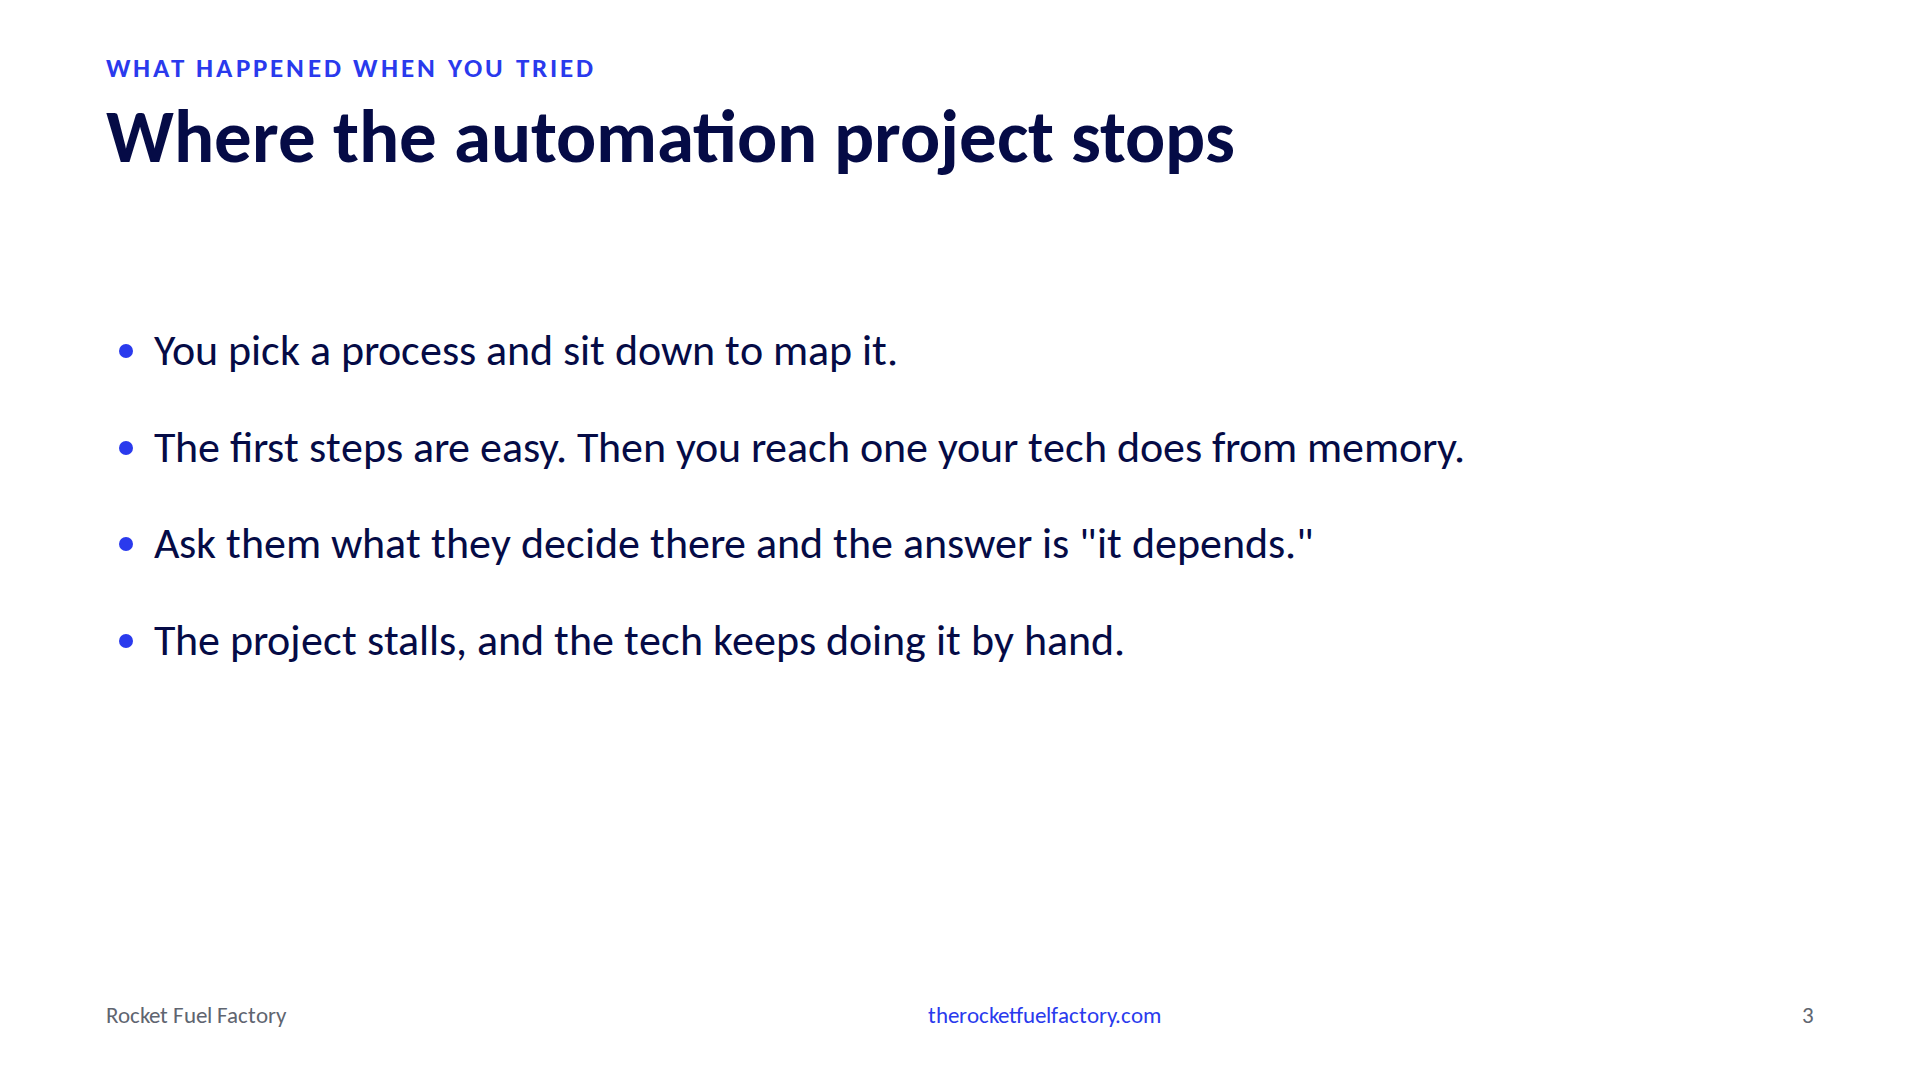
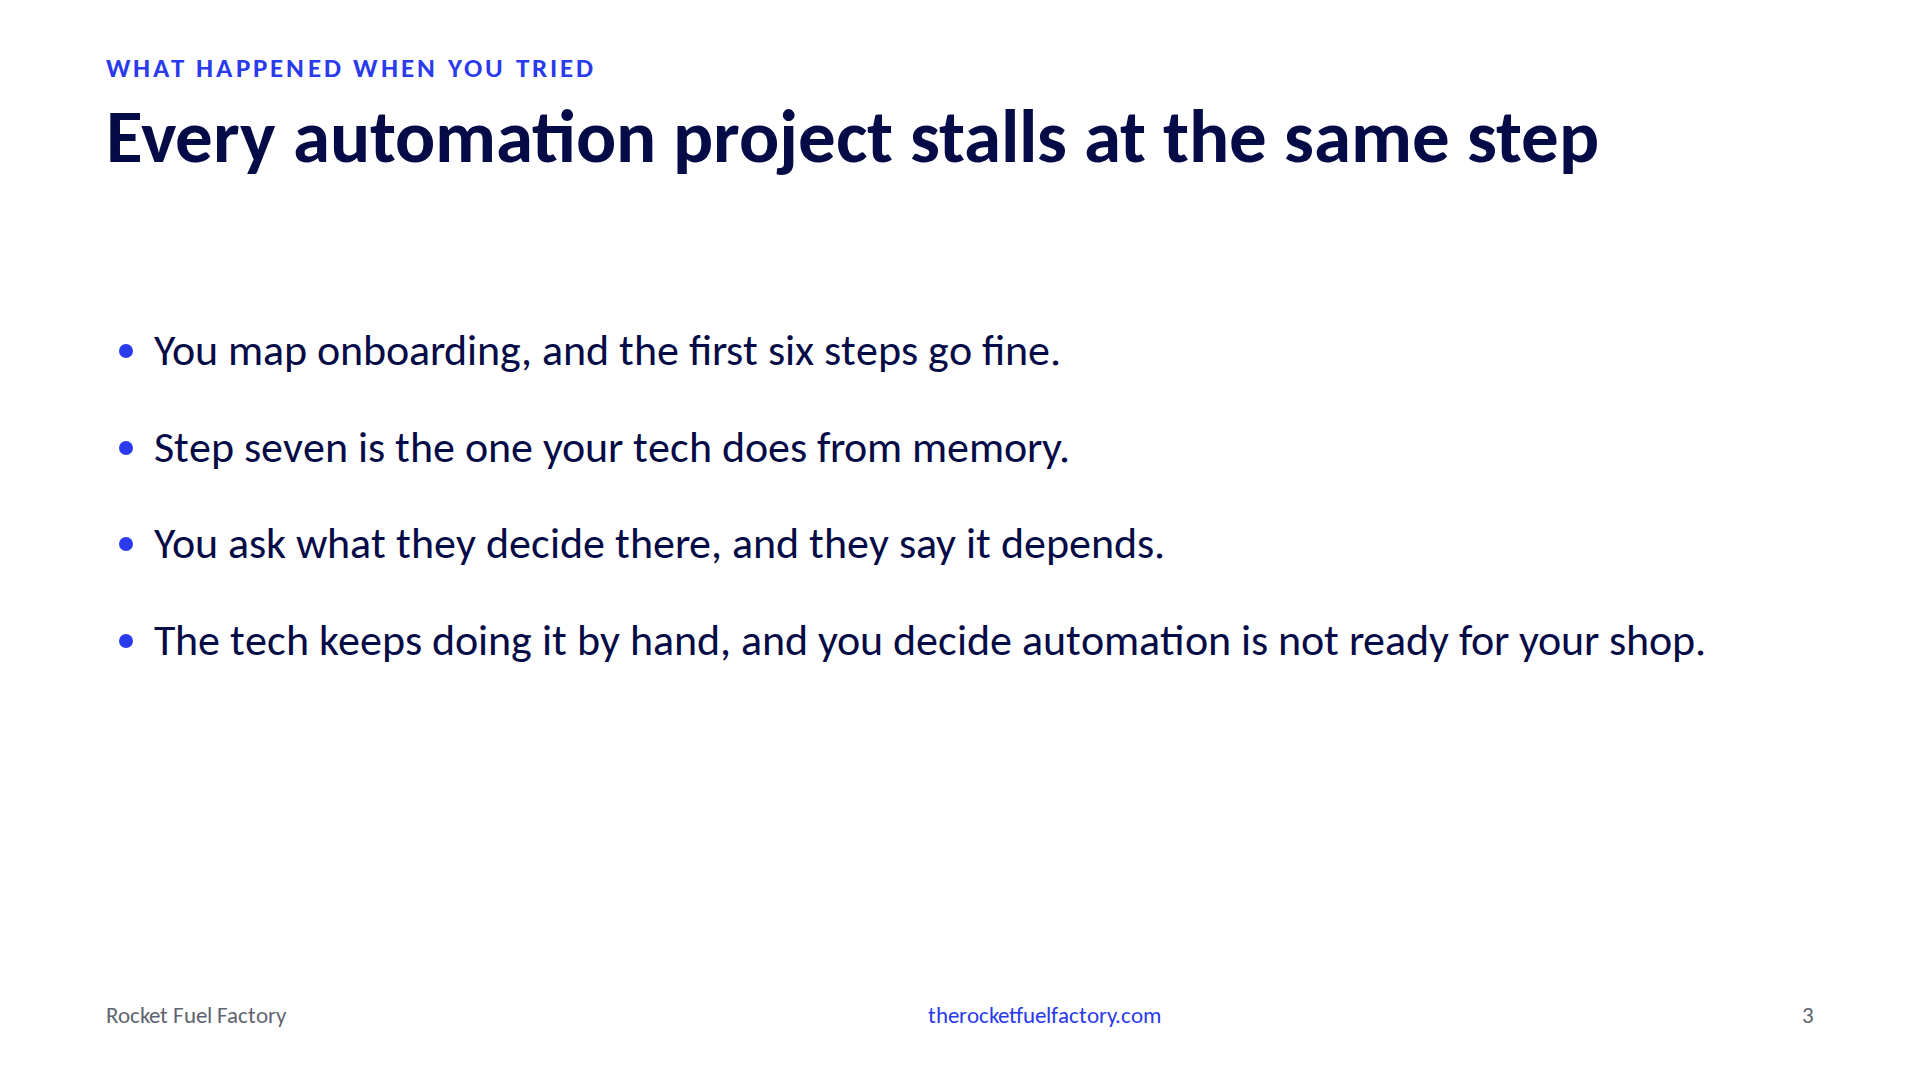
Slide 3: put the owner's own conclusion on the wall
Opus critique applied: cut the stage-direction bullet, name the step, fuse
the two-sentence line, and move "you decide automation is not ready for
your shop" from the note onto the slide. Note now answers the scheduling
objection instead of repeating the bullets.

Claude-Session: https://claude.ai/code/session_01HRMTnqCi7ggkLqdfhgoRdY

diff --git a/src/data/notes.js b/src/data/notes.js
@@ -6,7 +6,7 @@
 export const notes = {
   cover: 'Target 0:00. No verbatim line. Land straight after Dawn and Dave. Do not summarize their talk, one sentence of thanks and go.',
   automatons: 'Target 0:20. SLOW. Say the line and let it sit; half the room has a stalled automation project. Then the footer: this is what a tech\'s day still looks like, and it is exactly the work the machine was built for. So why is a person doing it? Not because owners do not want to automate. Everyone in this room has tried. Next slide is what happened when you did. Click.',
-  'where-the-project-stops': 'Target 1:00. Tell it as their story, not yours. You picked a process, probably onboarding. The first steps mapped fine. Then you hit one your tech does from memory, asked what they decide there, and got it depends. The project stalled, the tech kept doing it by hand, and you decided automation was not ready for your shop. It was not automation that failed. It was that step. Next slide is what it depends is made of. Click.',
+  'where-the-project-stops': 'Target 1:00. Do not read the bullets; they are on the wall. Tell it as their story. Step seven is whatever your tech does without thinking, and it depends is the honest answer, because the decision has never been said out loud. Then the objection in row three, say it for them: most of these projects look like they died of scheduling, a client went down and the second mapping session never happened. The reason nobody rescheduled is that the next step had no answer. It was not automation that failed. It was that step. Next slide is what it depends is made of. Click.',
   'the-typing-is-hiding-a-decision': 'Target 1:50. SLOW. Why did the rule never get written? Read the three lines. Every one of those is a decision, and it happens inside the typing, so it looks like typing. Your best tech makes them all day and has never once been asked to say how, because the work got done. Computers can do the typing. The deciding stayed with the tech because nobody wrote it down, and nobody wrote it down because nobody asked. Stay with the person here, not AI. Bridge, before the click: why has nobody asked? Because it worked. Your best tech kept deciding, the work kept getting done, and you never found out you had handed over the deciding along with the doing. We call that delegating. It is not. Click.',
   'abdicate-not-delegate': 'Target 3:20. The cause. Pick up the thread: you handed over the doing and the deciding together. Line to land: delegating is handing over the work and keeping the definition of done. Abdicating is handing over both. We became the automatons because we abdicated: the deciding stayed in one head, so the doing stayed with one pair of hands. Then the mechanism: you have gotten away with it because your best tech decides what you meant. The vague brief works on them, so you never find out it was vague. Then you give the same brief to the new hire and decide the new hire is not working out. Closing line off the slide: your best tech has been filling in the blanks for years, the new hire could not, neither can this.',
   'the-demo-never-had-a-client': 'Target 4:50. Rant slide, about a minute. No vendor names. Every launch video this year: someone says one sentence, something impressive appears, they say awesome, cut. Any answer would have been fine, because the only person checking was the person who asked. That is why one sentence was enough, and that is where you learned to ask that way. Do not mention the email or the ticket; the next slide opens it cold.',

diff --git a/src/components/slides/003-WhereTheProjectStops.jsx b/src/components/slides/003-WhereTheProjectStops.jsx
@@ -5,18 +5,20 @@ export default function WhereTheProjectStops({ slideNumber }) {
   return (
     <ContentFrame
       eyebrow="What happened when you tried"
-      title="Where the automation project stops"
+      title="Every automation project stalls at the same step"
       accent="blue"
       slideNumber={slideNumber}
     >
       <ul
         className="absolute list-disc pl-[48px] text-[44px] leading-snug text-rff-navy marker:text-rff-blue"
-        style={{ left: 106, top: 320, width: 1560 }}
+        style={{ left: 106, top: 320, width: 1600 }}
       >
-        <li>You pick a process and sit down to map it.</li>
-        <li className="mt-[36px]">The first steps are easy. Then you reach one your tech does from memory.</li>
-        <li className="mt-[36px]">Ask them what they decide there and the answer is "it depends."</li>
-        <li className="mt-[36px]">The project stalls, and the tech keeps doing it by hand.</li>
+        <li>You map onboarding, and the first six steps go fine.</li>
+        <li className="mt-[36px]">Step seven is the one your tech does from memory.</li>
+        <li className="mt-[36px]">You ask what they decide there, and they say it depends.</li>
+        <li className="mt-[36px]">
+          The tech keeps doing it by hand, and you decide automation is not ready for your shop.
+        </li>
       </ul>
     </ContentFrame>
   )

diff --git a/docs/OUTLINE.md b/docs/OUTLINE.md
@@ -36,7 +36,7 @@ Closing line: If you can't write the rule, you can't hire your way out of it eit
 
 1. Cover
 2. Pull statement, blue, Tim's line: We built computers to be automation machines, but we're afraid to actually automate anything with them. Footer: open an app, copy something, paste it into another one, over and over. SLOW. The fear is rational; everyone has tried. Bridge: next slide is what happened when you did.
-3. Where the automation project stops (bullets, blue). You pick a process and sit down to map it. The first steps are easy, then one your tech does from memory. Ask what they decide there and the answer is it depends. The project stalls and the tech keeps doing it by hand. This is the missing step between the fear and the cause: it was not automation that failed, it was that step. Next slide is what it depends is made of.
+3. Every automation project stalls at the same step (bullets, blue). You map onboarding, and the first six steps go fine. Step seven is the one your tech does from memory. You ask what they decide there, and they say it depends. The tech keeps doing it by hand, and you decide automation is not ready for your shop. Note names the scheduling objection: the second mapping session never happened because the next step had no answer. Bridge: next slide is what it depends is made of.
 4. Which alert is noise. Which client gets the short version. Which ticket gets a phone call. Your best tech decides that all day. Nobody has ever asked them how. (Statement, three navy lines, orange payoff.) SLOW. No illustration. Slide 3 is the stalled attempt, slide 4 names the decisions hiding inside the typing and why they never got written down. No Adobe here; that line belongs to Mike at slide 13. Photographable: concrete lines the room recognizes, not a slogan. Bridge to 5, spoken: why has nobody asked? Because it worked. You handed over the deciding along with the doing and never found out. We call that delegating. It is not. Go to slide 5, not straight to AI.
 
 5. We abdicate, we think we delegate (comparison). Delegate: hand over the work, keep the definition of done, say what good looks like. Abdicate: hand over both, grade against the version in your head, get away with it until you don't. The mechanism: the best tech fills in what you meant, so the vague brief works and you never learn it was vague. The new hire gets the same brief and no context, and you decide the new hire is not working out. Closing: your best tech has been filling in the blanks for years. The new hire couldn't. Neither can this.
